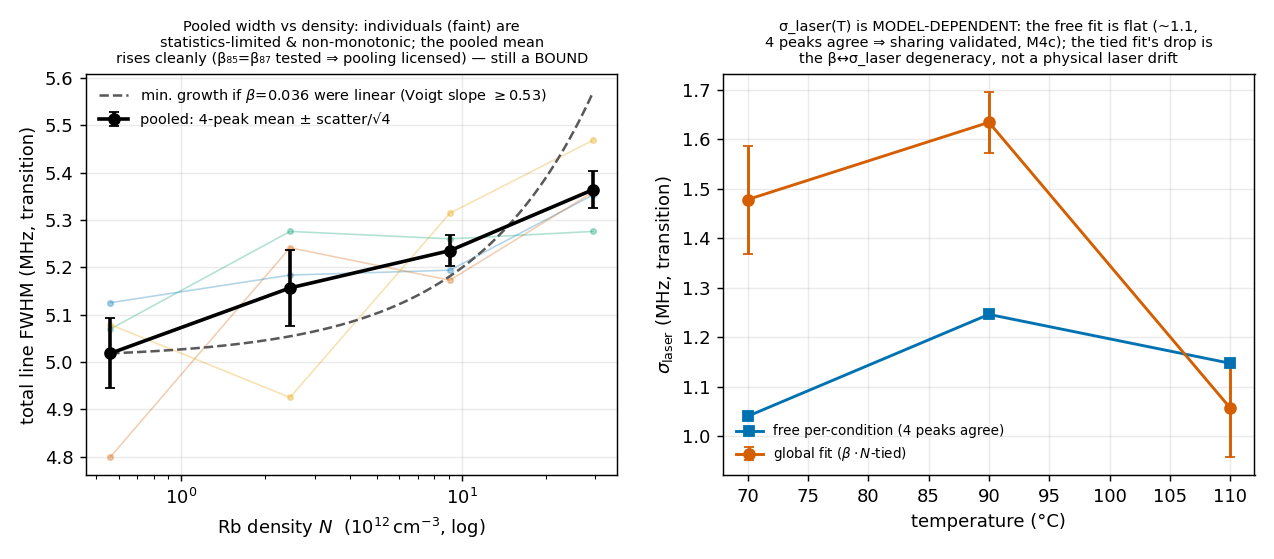
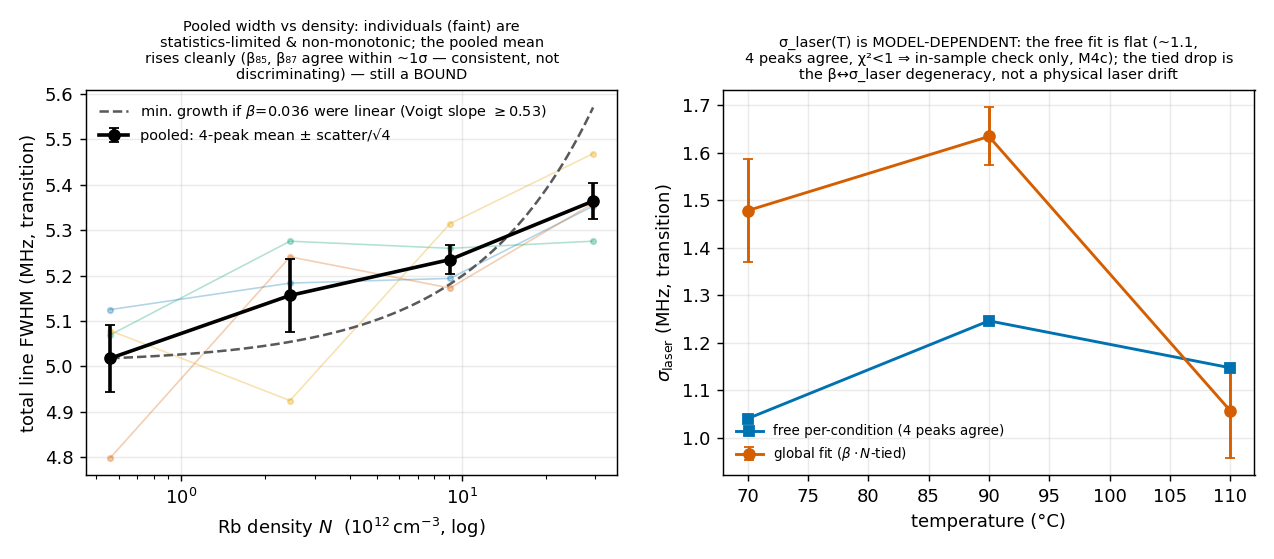
sweep: the confirmed-wrapper class again (7 more), an unsupported "validated", and the audit-staleness the reversal left behind
A 10-dimension agent sweep raised 109 findings before its verification pass
hit session limits; this applies the ones directly evidenced.

MORE "CONFIRMED" WRAPPERS (7, in 7 files). The class was swept twice already
and still had survivors, including two that stated PREDICTED numbers as the
archive's deliverable:
  * PLAN section 11 C3: "Power nulls as *predictions confirmed*: FWHM
    inflation <=2% and asymmetry <=1e-4" -- those are the ramp law's
    PREDICTIONS; the archive observes a 3-8% non-monotonic spread and an
    asymmetry below its own noise floor.
  * methods/03: "the old 'power null' is a *prediction confirmed*, not a null
    result" -- the observed spread is an order above the predicted ramp term,
    so the archive cannot resolve it: it is a null the law is consistent with.
  * THEORY_NOTE section 4's heading and lede, methods.md's chapter-7 row,
    LITERATURE's delineation table, annotate_results_status' comment, and
    README's own framing sentence -- written two commits earlier as
    "confirmed scaling laws". My wording, same defect, now "consistency
    checks".

An unsupported "VALIDATED". Three places said the sigma_laser sharing test
VALIDATES the sharing and LICENSES it. The chi2/dof are 0.19/0.58/0.33 -- all
far BELOW 1, i.e. the peak-blocks sit closer to the shared model than their
own error bars, so the test cannot discriminate and licenses nothing. The
ledger already said this correctly ("an IN-SAMPLE consistency check, not a
[…]

diff --git a/scripts/make_figures.py b/scripts/make_figures.py
@@ -242,7 +242,8 @@ def fig_pooled_width():
     a1.set_ylabel("total line FWHM (MHz, transition)")
     a1.set_title("Pooled width vs density: individuals (faint) are\n"
                  "statistics-limited & non-monotonic; the pooled mean\n"
-                 "rises cleanly (β₈₅=β₈₇ tested ⇒ pooling licensed) — still a BOUND",
+                 "rises cleanly (β₈₅, β₈₇ agree within ~1σ — consistent, not\n"
+                 "discriminating) — still a BOUND",
                  fontsize=8)
     a1.legend(fontsize=8, loc="upper left")
     # panel B: σ_laser(T) is MODEL-DEPENDENT -> the "anomaly" is degeneracy, not drift
@@ -263,7 +264,7 @@ def fig_pooled_width():
     a2.set_xlabel("temperature (°C)")
     a2.set_ylabel(r"$\sigma_\mathrm{laser}$ (MHz, transition)")
     a2.set_title("σ_laser(T) is MODEL-DEPENDENT: the free fit is flat (~1.1,\n"
-                 "4 peaks agree ⇒ sharing validated, M4c); the tied fit's drop is\n"
+                 "4 peaks agree, χ²<1 ⇒ in-sample check only, M4c); the tied drop is\n"
                  "the β↔σ_laser degeneracy, not a physical laser drift", fontsize=8)
     a2.legend(fontsize=7.5)
     _save(fig, "fig5_pooled_width.png")

diff --git a/scripts/run_beta_self.py b/scripts/run_beta_self.py
@@ -10,8 +10,13 @@ apply the measurement-vs-bound rule.
 THE CONFOUND (docs/PLAN.md M4): temperature is monotonic with time across the
 campaign, so a slow instrument drift can mimic collisional broadening. Probes
 that bound the drift contribution:
-  (P1) P-session line widths vs block order at FIXED 130 C (power's true
-       width effect is <=2%) -- a direct hours-scale drift monitor.
+  (P1) P-session line widths vs block order at FIXED 130 C (the ramp predicts
+       a <=2% width effect) -- a drift monitor. NOTE (2026-07-23): block
+       order is ASCENDING POWER, and the recovered timestamps show the
+       session ran DESCENDING, so this axis is reversed in time. The probe
+       is direction-agnostic (it asks whether width varies across the
+       session at fixed T, not which way), so the bound is unaffected --
+       but do not read the sign of any trend here as a drift direction.
   (P2) before/after ruler tooth-width change per peak -- fixed-condition
        instrument drift over each peak's session.
   (P3) cross-peak gamma_coll consistency at fixed T -- four lines see ONE

diff --git a/rb5s6s/global_fit.py b/rb5s6s/global_fit.py
@@ -13,8 +13,10 @@ between-block laser width DRIFTS across the 2025 cooling session:
     MEASURED rather than mistaken for collisions). NOT shared across T --
     that global-sharing is exactly what made the M4 global fit overconfident.
     [For a stable lock, share sigma_laser globally instead.]
-    ASSUMPTION (cannot be fully verified -- NO timestamps
-    exist in the archive): per-T sharing is valid only if the 4 peaks at a
+    ASSUMPTION (not verifiable from the analysed exports, which carry no
+    acquisition time; a recovered backup's timestamps exist but the
+    pre-registered audit voided at content identity -- see
+    docs/PREREGISTRATION_RESULTS.md): per-T sharing is valid only if the 4 peaks at a
     given T were acquired close enough in time that the laser did not drift
     between them. If they were minutes apart at ~4 MHz/min drift, forcing one
     sigma_laser(T) reintroduces the very overconfidence the cross-T split

diff --git a/scripts/annotate_results_status.py b/scripts/annotate_results_status.py
@@ -53,7 +53,7 @@ FILE_STATUS = {
     "amplitude_ratios.csv": "NULL",       # degeneracy-law ratios drift-limited -> untestable in archive
     "amplitude_trapping.csv": "MEASURED", # amp ~ N, slopes 0.85-1.02, no rollover
     "modelform.csv": "NULL",              # Voigt-vs-Lehmann BIC below the gate -> no preference
-    "power_sweep.csv": "MEASURED",        # fwhm-flat + amp~P^2 confirm the ramp law (resid_skew=ARTIFACT, RESULTS C3c)
+    "power_sweep.csv": "MEASURED",        # width null + amp~P^2 consistency check (resid_skew=ARTIFACT, RESULTS C3c)
     "ruler_campaign.csv": "MEASURED",     # the frequency rate (axis-independent)
     "linefit_conditions.csv": "PRELIM",   # per-condition joint fits, degenerate split
     "noise_model.csv": "DIAGNOSTIC",

diff --git a/scripts/run_power_sweep.py b/scripts/run_power_sweep.py
@@ -5,7 +5,8 @@ M6: the power sweep as a CONFIRMED PREDICTION (paper deliverable C3).
 At fixed 130 C the density, transit and (within the power session) laser width
 are all constant; ONLY the AC-Stark shift S0 changes with power P. The
 intensity-averaging "ramp law" (README section 2.6) then predicts three things
-for the 25 -> 225 mW sweep:
+for the 25-225 mW sweep (acquired 225 -> 25 mW; direction is irrelevant to
+these three predictions, which are functions of P, not of time):
 
   (C3a) LINEWIDTH nearly FLAT: the triangular ramp of on-axis width S0
         convolved into a ~5 MHz line inflates the FWHM by <~2% across the

diff --git a/scripts/run_timestamp_audit.py b/scripts/run_timestamp_audit.py
@@ -206,7 +206,7 @@ def main() -> int:
         void = False
     if void:
         W("**INTEGRITY VOID — predictions deliberately not scored (per the "
-          "gate table). This is the honest stop.**")
+          "gate table).**")
         text = "\n".join(L) + "\n"
         print(text)
         if args.report:

diff --git a/results/README.md b/results/README.md
@@ -28,9 +28,9 @@ intermediates); **`ENVELOPE`** (order-of-magnitude / w₀-parametric estimate).
 | `beta_self.csv`, `beta_self_probe.csv` | `run_beta_self.py` (M4, C1) | two DIFFERENT quantities (mind the names): `beta_self.csv` = per-peak model fits; **`beta_self_probe.csv` = the model-independent width-slope bound `bound95` — the C1 HEADLINE.** ("probe" here = the width-vs-density *probe*, NOT the 130 °C lever — that is `beta_lever_probe_130` in `lever_crosscheck.csv`.) **Axis note:** the `sigma_laser` column is the fitted Gaussian FWHM on the **transition axis** (halve for laser axis) and is CONDITIONAL on the transit prior (transit is a separate fixed kernel, degenerate with σ_laser via w₀). So per-peak 2.0–2.2 MHz transition = 1.0–1.1 MHz laser, consistent with the C2 headline bound (<1.2 MHz laser); it is NOT transit-subtracted and is an upper end, not a measurement. **β error columns here (and in `global_fit.csv`) are STAT-only** — the dominant C1 uncertainty is the ~factor-2 spread ACROSS estimators (this fit vs the hierarchical fit vs the model-independent bound), which is not a per-fit column; script against the bound in `beta_self_probe.csv` (`bound95`), not these central values, if you need the conservative headline. |
 | `global_fit.csv` | `run_global_fit.py` (M4b) | **AUTHORITATIVE hierarchical β** (shared σ_laser per-T across peaks, β per isotope). This SUPERSEDES the per-peak `beta_self.csv` for the isotope question: the per-peak fits let σ_laser float per line and so absorb per-peak systematics — the 1.6σ ⁸⁷Rb internal spread (β 0.030 vs 0.047) and the unphysical 10% σ_laser spread (1.89–2.17; the laser cannot differ per hyperfine line) — whereas the global fit constrains σ_laser jointly and finds β₈₅=β₈₇ (no isotope difference). **σ_laser(T) caveat (updated by M4c, `sigma_laser_sharing.csv`):** the per-T sharing across peaks is now **validated** — at each T the four peak-blocks agree on one σ_laser (χ²/dof < 1), answering the acquisition-timing worry positively. But the 2.13/2.23/1.60 *trend* is NOT a physical laser drift: the free per-condition σ_laser is ~flat (1.6–1.8), so the tied fit's inflation-then-drop is the β↔σ_laser degeneracy under the density constraint. STAT-only errors; not clean per-temperature laser-width measurements. |
 | `lever_crosscheck.csv` | `run_lever_crosscheck.py` (M4d) | **a lever-limited cross-check ESTIMATOR — NOT the headline β** (that stays the model-independent width-slope bound in `beta_self_probe.csv`). The cooling-sweep (70/90/110 °C) joint fit with its statistical precision and systematics: `beta_crosscheck` (value=β, err=statistical — **read as this estimator's precision, not β's**: the lever test below moves the central value ~8σ, so β is a bound, and `beta_lever_probe_130` + `gamma_rise_factor` show why), `beta_err_transit`/`beta_err_sharing`/`beta_err_modelform` (the model-form grid), `beta_w0_band` (value=lo err=hi over the OPEN w₀), `beta_loo_peak`/`beta_loo_temp` (drop-a-peak robustness vs drop-a-temperature lever-leverage), and `beta_grid_*` (the three model cells). **`beta_lever_probe_130` + `gamma_coll_mean_vs_T` + `gamma_rise_factor` are the lever test:** the joint β collapses 0.036→0.014 when the ×53 130 °C anchor is added, because γ_coll rises only ×1.85 across a ×52 density span (a residual floor, not resolved collisions) → β is a lever-dependent **BOUND**. The `beta_crosscheck` value SUPERSEDES `global_fit.csv` (same headline, byte-stable) by adding the auditable budget; the model-independent bound in `beta_self_probe.csv` remains the archival headline. |
-| `sigma_laser_sharing.csv` | `run_sigma_laser_sharing.py` (M4c) | the σ_laser Model-A-vs-B test: per-T χ²/dof of the 4 peak-blocks (sharing validated, χ²<1) + free vs β·N-tied common σ_laser (the trend is degeneracy, not drift) |
+| `sigma_laser_sharing.csv` | `run_sigma_laser_sharing.py` (M4c) | the σ_laser Model-A-vs-B test: per-T χ²/dof of the 4 peak-blocks (χ²<1: an in-sample check that cannot discriminate, not a validation) + free vs β·N-tied common σ_laser (the trend is degeneracy, not drift) |
 | `laser_epoch.csv` | `run_laser_epoch.py` (M5, C2) | σ_laser upper bound + w₀ band |
-| `power_sweep.csv` | `run_power_sweep.py` (M6, C3) | FWHM/amplitude/skew vs power. **`resid_skew` is the residual skew of a SYMMETRIC fit** — large & positive at low power (up to ~10σ) but it is shot-noise skewness (∝1/√counts, falls with power), NOT the ac-Stark ramp (which would grow as P³); see RESULTS.md C3c. |
+| `power_sweep.csv` | `run_power_sweep.py` (M6, C3) | FWHM/amplitude/skew vs power. **`resid_skew` is the residual skew of a SYMMETRIC fit** — large & positive at low power (up to ~10σ) but it is shot-noise skewness (∝1/√counts, falls with power), NOT the AC-Stark ramp (which would grow as P³); see RESULTS.md C3c. |
 | `stark_sweep.csv` | `run_stark_sweep.py` (M4e, C3d) | the AC-Stark coefficient BOUND from the power lever: one shared κ (S₀=κP) fit to the 130 °C FWHM-vs-power (from `power_sweep.csv`). **`S0_225mW_ub95_profile`** is the headline — a 95% profile-likelihood upper bound S₀(225 mW) < 0.63 MHz, just above `S0_225mW_pred` (0.59). (The Wald `S0_225mW_ub95`=3.1 / `_ub95_raw`=1.5 are SUPERSEDED diagnostics: the fit rails at κ=0, where a linearized error has no coverage.) A BOUND, not a measurement: the shift is dead in the 2025 drift, so only the ramp's width broadening (∝S₀²) constrains κ; `chi2_red`≈4 (block-to-block width scatter) is folded into the bound. a fixed lock would measure the pull ∝S₀ directly. |
 | `amplitude_trapping.csv` | `run_amplitude_trapping.py` (M7) | amplitude vs density |
 | `modelform.csv` | `run_modelform.py` (M8) | Voigt-vs-Lehmann BIC |

diff --git a/docs/PLAN.md b/docs/PLAN.md
@@ -8,7 +8,7 @@ specification for possible future sessions. Supersedes the initial-brief pipelin
 From the 2025 archival data:
 - **C1** First determination — or bound — of collisional self-broadening β_self of the 5S→6S line vs Rb density (T-sweep).
 - **C2** Quantitative characterization of the 2025-epoch laser (within-scan kernel + drift diary). Supporting deliverable; also the starting linewidth baseline for any ONF work on this line.
-- **C3** Power nulls as *predictions confirmed*: FWHM inflation ≤2% and asymmetry ≤10⁻⁴ across 25–225 mW, as required by the intensity-averaging (ramp) law. Measured sensitivity quoted alongside.
+- **C3** Power sweep tested against the ramp law: the law PREDICTS FWHM inflation ≤2% and asymmetry ≈10⁻⁴ across 25–225 mW; the archive OBSERVES a 3–8% non-monotonic width spread (block scatter, no significant power slope) and an asymmetry below its ~10⁻³ noise floor. A null, a consistency check and a bound — not three confirmations.
 
 Reserved for a fixed-lock session (specified in §8; not scheduled): AC-Stark coefficient (P up to ~1 W, ramp-cliff regime), collisional self-shift, direct high-power lineshape test, Lehmann-cusp attempt. The pipeline below must ingest such data unchanged.
 
@@ -915,8 +915,11 @@ one); the hybrid is across the moment hierarchy, never across methods.
   blocks get **12–16 repeats** (they are gain-scatter-limited);
   width blocks 8. Randomized P order (free — no thermalization).
 - **Per-scan timestamps — recorded in hardware metadata, not just the notebook
-  (the fix for 2025 post-mortem #5).** The archive carries *no* acquisition time
-  on any trace, so block order is the only clock — and that is the single reason
+  (the fix for 2025 post-mortem #5).** The analysed exports carry *no* acquisition time
+  on any trace, so block order was the only clock available to the analysis —
+  (a recovered backup later supplied file timestamps; the audit voided at T1,
+  and its post-hoc pass showed block order is not even the acquisition order:
+  the power ladder ran 225 → 25 mW) — and that is the single reason
   the σ_laser-sharing the hierarchical β rests on is untestable: the four peaks at
   a given T could have co-drifted between acquisitions and still agree (M4c), so
   the sharing check is necessary-not-sufficient (RESULTS.md). A wall-clock time on
@@ -1139,7 +1142,7 @@ compresses the cuts follow the priority ranking in §8.0/§8.7.7.
 | 2 | Only 3 densities → 1 residual DOF | t(0.95,1) = 6.31 error multiplier | β_self a bound | ≥5 T blocks (§8.4) |
 | 3 | T monotonic in time (one sweep direction, ever) | density slope exactly collinear with drift | monotonicity guard had to carry the claim | opposite-order days (§8.4) |
 | 4 | Cross-session high-density anchor | joint β collapses 0.036 → 0.014 when folded in (M4d lever test) | high-T lever unusable | 150–170 °C same-session (§8.4) |
-| 5 | No acquisition clock available to the analysis | block order the only clock | σ_laser-sharing assumption untestable **as analysed**; a recovered backup is under pre-registered audit (2026-07-22) which may lift this | log scope clock + notebook (§8.4) |
+| 5 | No acquisition clock available to the analysis | block order the only clock | σ_laser-sharing assumption untestable **as analysed**; the recovered backup was audited 2026-07-23 — integrity void at T1, so this row is unchanged (PREREGISTRATION_RESULTS.md) | log scope clock + notebook (§8.4) |
 | 6 | Ruler traces HWP-rotated (AM trick) | monitor reliability ≈ 0; wrong-sign correlation ~2σ | no drift compensator on the archive | β ≈ 1.20 pure-PM null (§8.4; methods §3) |
 | 7 | w₀ never measured | tens-of-% prior | every absolute number conditional | beam-profile first (§8.0 #1) |
 | 8 | ρ(T) never measured | ~8% S₀ drift across the sweep from window filming alone | optics drift masquerades as physics | T_win before AND after, per condition (§8.0 #2) |

diff --git a/docs/LITERATURE.md b/docs/LITERATURE.md
@@ -24,7 +24,7 @@ Delineation (what is genuinely not in Stalnaker/Wieman):
 | Regime | **fringe-resolved**: FM index ξ/Ω ≳ 1, Bessel sidebands, sub-Doppler features | **fringe-averaged**: ξ/Ω ~ 10⁻³, atoms see the time-averaged envelope |
 | Lineshape | numerical Bloch, per-condition | **closed-form** shift density f(s) ∝ \|s\| on [−S₀,0] |
 | Extraction | full-shape fit; needs β, cavity field, velocity model, per-scan free center | **closed-form ramp** fit with a per-trace free center; the ramp SHIFT is absorbed by the free center, so S₀ is read from the drift-invariant SHAPE ASYMMETRY (skew) — the stable-lock pull is the fixed-lock session's separate, larger handle |
-| Saturation | saturating + hole-burning entangled with the asymmetry | unsaturated throughout (C3: amplitude ∝ P² confirmed) |
+| Saturation | saturating + hole-burning entangled with the asymmetry | unsaturated throughout (C3: amplitude consistent with ∝ P², slopes 1.83–2.12) |
 
 The generic quasi-static law both regimes reduce to: signal weight ∝ Iⁿ over
 a Gaussian envelope gives dA ∝ dI/I, hence **f(s) ∝ |s|^(n−1)** — uniform
@@ -171,7 +171,7 @@ absolute prediction, not a placeholder, and (c) confirm the b→FWHM and the
   confirms the phenomenon while missing the asymmetry. REPORTED (2026-07-12);
   pull full text — a referee-critical citation.
 - **Fendel/Udem/Hänsch, Opt. Lett. 32, 701 (2007)** (Cs 6S–8S comb):
-  ac-Stark determined by average not peak intensity; power-to-zero
+  AC-Stark determined by average not peak intensity; power-to-zero
   extrapolation mindset. REPORTED.
 - **Cs 6S–6D (2018)**: 40 µm waist → significant transit broadening.
   Cross-check vs our M9: scaling by v/w₀ (Cs ~200 m/s @40 µm vs Rb ~280 m/s
@@ -358,9 +358,9 @@ energy work, *J. Phys. B*-era, VERIFY vol/year via Ayachitula's ref list) report
 The **novelty to claim** is the *inversion* of lineshape asymmetry from a nuisance
 into a reference-free estimator:
 - **`wieman1987`** — Wieman, Noecker, Masterson, Cooper, *PRL* **58**, 1738 (1987):
-  ac-Stark lineshape asymmetry in standing waves, the foundational precedent
+  AC-Stark lineshape asymmetry in standing waves, the foundational precedent
   (treated as a distortion). **[CITE]**
-- [antypas2018](lit/antypas2018.md) — the ac-Stark-asymmetry elimination
+- [antypas2018](lit/antypas2018.md) — the AC-Stark-asymmetry elimination
   precedent (Yb) our method inverts. **[CITE]**
 - **`bevilacqua2012`** — *PRA* **86**, 012501 (2012): Gaussian-beam transit-time
   two-photon gives a Voigt whose width is set solely by w₀ (curvature broadening
@@ -370,7 +370,7 @@ into a reference-free estimator:
 suppression; our passive method is the differentiator).** [FEED/CITE for §VI.D/§VII
 contrast and for the future Paper A.]
 - [andeweg2026](lit/andeweg2026.md) — Andeweg, Kitching, Hummon (NIST): the
-  newest competitor method, active **power-modulation** ac-Stark suppression
+  newest competitor method, active **power-modulation** AC-Stark suppression
   (×1000); contrast our passive approach against it.
 - [ahern2025](lit/ahern2025.md) — Ahern et al. (Adelaide): two-color 5S–5D
   standard, 6×10⁻¹⁴/√τ, light-shift-limited.

diff --git a/docs/PREREGISTRATION_RESULTS.md b/docs/PREREGISTRATION_RESULTS.md
@@ -22,7 +22,7 @@ Manifest rows matched to backup: 282; missing: 15
 * **T5**: all comparisons in raw epoch seconds; JST used for display only.
 * **T6 clock of record** — native scope files present: 0 (mtimes are the clock of record if 0).
 
-**INTEGRITY VOID — predictions deliberately not scored (per the gate table). This is the honest stop.**
+**INTEGRITY VOID — predictions deliberately not scored (per the gate table).**
 
 ---
 
@@ -70,6 +70,24 @@ Manifest rows matched to backup: 296; missing: 1
 
 *One run, everything reported. Scored by scripts/run_timestamp_audit.py at the commit recorded in the results report; criteria are the pre-registered ones and were not adjusted after seeing the data.*
 
+
+### Status of every derived analysis D0–D5
+
+The pre-registration listed six derived analyses. For completeness, since a
+report that scores only the one that passed would be selective reporting:
+
+| # | claim | status |
+|---|---|---|
+| **D0** | the archival drift rate lands below 4 MHz/min | **not scored** — withdrawn before the data was opened (§8.2/§8.3): the corroborating wavemeter photographs proved to be outside the campaign window, and the in-campaign record is consistent with the 4 MHz/min envelope |
+| **D1** | measure the drift rate from intra-block scatter ÷ block duration | **void** — the archive itself showed the intra-block scatter is jitter, not accumulated drift (§8.4), so it cannot be divided by a duration to give a rate |
+| **D2** | drift model, $T$ vs $\sqrt{T}$ scaling of intra-block scatter | **void with D1**, for the same reason: jitter does not scale with block duration |
+| **D3** | re-centring frequency consistent with rate × elapsed ÷ window | **not scored** — depends on D1's rate, which has no route |
+| **D4** | 5-repeat block ≈ 80 s, from scatter ÷ drift rate | **VOID** — its premise (that the scatter is drift) was tested and falsified before the backup was opened (§8.4) |
+| **D5** | median 5-repeat block span under ~70 s | **PASS** — median 34 s (post-hoc pass above) |
+
+D1–D3 were declared in §7 as "weaker in standing than P1–P8", and all three
+died on the same finding, which was itself made and recorded before opening
+the backup. None of them was retired after seeing the timestamps.
 
 ### Post-hoc reading (content-matched pass; no pre-registered standing)
 

diff --git a/docs/APPARATUS.md b/docs/APPARATUS.md
@@ -171,18 +171,6 @@ assumption A1 outright rather than leaving it as a stated assumption.
 That is worth one spare channel and nothing more. If channels are contended,
 this is the first thing to drop.
 
-A 2025-06-10 photograph of the Agilent scope shows **two channels**: a clean
-triangular **sweep-ramp monitor** on Ch1 and the fluorescence on Ch2, with the
-fluorescence peaks mirrored about the ramp apex — the fold, directly visible.
-
-That bears on assumption **A1** (scope triggered on the sweep sync, so file
-time = ramp phase), which `PLAN.md` still lists as needing one word of
-confirmation: a ramp monitor was demonstrably available, on the Agilent, and
-the photograph shows the fold it produces. **If that channel was saved
-alongside the fluorescence for any archival trace, A1 becomes directly
-testable rather than assumed** — the archive as curated holds single-channel
-traces, so this is a question for the experimenter.
-
 A 2025-07-15 photograph shows the five-tooth comb on the **LeCroy** reading
 "Trig'd", three days before the campaign — consistent with the LeCroy being
 tried and then abandoned for the Agilent. It says nothing about A1, since it
@@ -264,12 +252,14 @@ with repeat index (§[PREREGISTRATION](PREREGISTRATION_timestamps.md) §8.4,
 p = 0.33). At ≈0.2 MHz/min, drift would reach the observed 0.08 MHz scatter
 only after ~70 s, so its absence bounds the block:
 
-> **5-repeat blocks span less than ~70 s** (under ~14 s per saved trace).
+> **The MEDIAN 5-repeat block spans less than ~70 s** (under ~14 s per saved
+> trace). **Scored 2026-07-23: PASS** — median 34 s, range 20–148 s
+> ([PREREGISTRATION_RESULTS.md](PREREGISTRATION_RESULTS.md)).
 
 That replaces the voided D4 and inverts its logic: D4 divided the scatter *by*
 a drift rate, assuming the scatter *was* drift; this uses the **absence** of
 drift, together with a drift rate now known from the lock state, as an upper
-bound. It is a genuine pre-data prediction about the recovered timestamps.
+bound. It was a genuine pre-data prediction about the recovered timestamps, and it held.
 
 ---
 

diff --git a/docs/methods/03_the_ac_stark_ramp.md b/docs/methods/03_the_ac_stark_ramp.md
@@ -81,9 +81,11 @@ $$g_1^{\text{obs}} \sim \frac{\kappa_3^{\text{tot}}}{\sigma_\text{eff}^3}
 since $S_0\propto$ power $P$. (No contradiction with the fixed $0.566$: that
 is the standardized skew of the ramp *alone*; here the same $\kappa_3$ is
 divided by a much larger, nearly fixed symmetric width.) **Two consequences
-for the archival data:** (i) the FWHM moves $\lesssim2$% across our power
-sweep, so the old "power null" is a *prediction confirmed*, not a null
-result; (ii) the observed asymmetry $\propto P^3$ is $\sim10^{-4}$ against a
+for the archival data:** (i) the ramp predicts the FWHM should move $\lesssim2$% across our power
+sweep, and the archive shows no significant power trend — the observed 3–8%
+spread is non-monotonic block scatter, an order above the predicted ramp
+contribution, so the archive cannot resolve the ramp term: the old "power
+null" is a null the ramp law is *consistent with*, not a confirmation of it; (ii) the observed asymmetry $\propto P^3$ is $\sim10^{-4}$ against a
 $\sim10^{-3}$ noise floor — unmeasurable — so all AC-Stark *coefficients*
 move to a fixed-lock session (where the shift itself, $\propto P$, is measured directly
 against a stable lock). *Code:* `stark_ramp()` — built from exact per-cell
